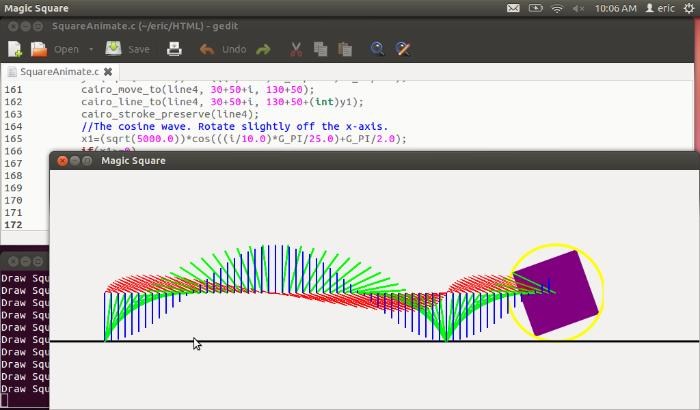
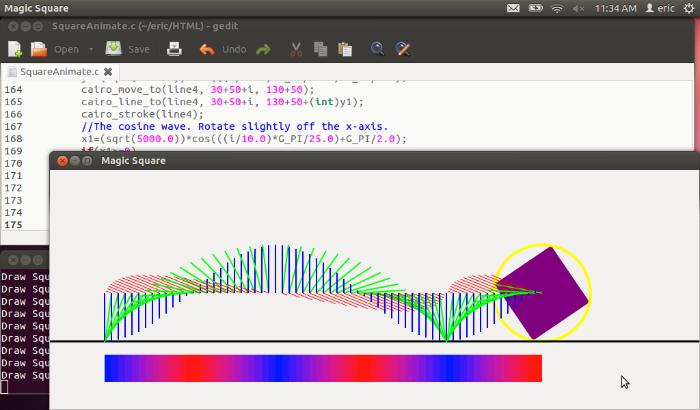
Add a color component line for SquareAnimate.c

diff --git a/Misc/SquareAnimate.c b/Misc/SquareAnimate.c
@@ -3,7 +3,7 @@
 
 Simple animation with GTK+ and Cairo. Click to start movement. Testing things out.
 Roll a square, build a cycloid "bridge" wave, sine wave and cosine wave. Have the
-square disappear and reappear. Magic Square.
+square disappear and reappear. Magic Square. Change around as needed.
 
 Compile with; gcc SquareAnimate.c `pkg-config --cflags --libs gtk+-3.0` -lm -Wall -o square
 
@@ -64,7 +64,7 @@ static void start_drawing(GtkWidget *widget, gpointer data)
         if(move!=1000)
           {
             draw_square(widget, move);
-            gtk_widget_queue_draw_area(widget, i, 30, 170, 250);
+            gtk_widget_queue_draw_area(widget, i, 30, 170, 350);
           }
         else
           {
@@ -102,6 +102,7 @@ static void draw_square(GtkWidget *widget, int move)
     cairo_t *line3=NULL;
     cairo_t *line4=NULL;
     cairo_t *line5=NULL;
+    cairo_t *line6=NULL;
 
     g_print("Draw Square %i\n", move);
     DefaultWindow=gtk_widget_get_window(GTK_WIDGET(widget));
@@ -111,7 +112,8 @@ static void draw_square(GtkWidget *widget, int move)
     line2 = gdk_cairo_create(DefaultWindow);
     line3 = gdk_cairo_create(DefaultWindow);
     line4 = gdk_cairo_create(DefaultWindow);
-    line5 = gdk_cairo_create(DefaultWindow);        
+    line5 = gdk_cairo_create(DefaultWindow);
+    line6 = gdk_cairo_create(DefaultWindow);         
 
     //Rotate around center of square so move there.
     cairo_translate(square, 30+move+50, 130+50);
@@ -128,7 +130,7 @@ static void draw_square(GtkWidget *widget, int move)
     cairo_set_line_width(circle, 4.0);
     cairo_arc(circle, 0, 0, sqrt(5000.0), 0, 2*M_PI);
     cairo_close_path(circle);
-    cairo_stroke_preserve(circle);
+    cairo_stroke(circle);
     //Put a line in for the square to roll on.
     cairo_set_source_rgb(line1, 0, 0, 0);
     cairo_move_to(line1, 0, 130+50+sqrt(5000.0));
@@ -141,26 +143,27 @@ static void draw_square(GtkWidget *widget, int move)
     cairo_move_to(line2,30+50+move, 130+50);
     cairo_arc(line2, 30+50+move, 130+50, sqrt(5000.0), (((move/10)*G_PI/25.0)+G_PI/2.0), (((move/10)*G_PI/25.0)+G_PI/2.0));
     cairo_line_to(line2, 30+50+move, 130+50);
-    cairo_stroke_preserve(line2);
+    cairo_stroke(line2);
     //Set line colors and width.
     cairo_set_line_width(line3, 2.0);
     cairo_set_source_rgb(line3, 0, 1.0, 0);
     cairo_set_line_width(line4, 2.0);
     cairo_set_source_rgb(line4, 0, 0, 1.0);
-    cairo_set_line_width(line5, 0.5);
+    cairo_set_line_width(line5, 1.0);
     cairo_set_source_rgb(line5, 1, 0, 0);
+    cairo_set_line_width(line6, 40.0);
     for(i=0;i<move;i+=10)
        {
          //The bridge.
          cairo_move_to(line3,30+50+i, 130+50);
          cairo_arc(line3, 30+50+i, 130+50, sqrt(5000.0), (((i/10)*G_PI/25.0)+G_PI/2.0), (((i/10)*G_PI/25.0)+G_PI/2.0));
          cairo_line_to(line3, 30+50+i, 130+50);
-         cairo_stroke_preserve(line3);
+         cairo_stroke(line3);
          //The sine wave.
          y1=(sqrt(5000.0))*sin(((i/10.0)*G_PI/25.0)+G_PI/2.0);
          cairo_move_to(line4, 30+50+i, 130+50);
          cairo_line_to(line4, 30+50+i, 130+50+(int)y1);
-         cairo_stroke_preserve(line4);
+         cairo_stroke(line4);
          //The cosine wave. Rotate slightly off the x-axis.
          x1=(sqrt(5000.0))*cos(((i/10.0)*G_PI/25.0)+G_PI/2.0);
          if(x1>=0)
@@ -172,7 +175,12 @@ static void draw_square(GtkWidget *widget, int move)
              cairo_arc(line5, 30+50+i, 130+50, (int)floor(fabs(x1)), G_PI+G_PI/8, G_PI+G_PI/8);
            }
          cairo_line_to(line5, 30+50+i, 130+50);
-         cairo_stroke_preserve(line5);        
+         cairo_stroke(line5); 
+         //The sine cosine color component line. 
+         cairo_set_source_rgb(line6, fabs(x1)/sqrt(5000), 0, fabs(y1)/sqrt(5000)); 
+         cairo_move_to(line6, 30+50+i, 130+50+110);
+         cairo_line_to(line6, 30+50+i+10, 130+50+110);
+         cairo_stroke(line6);       
        }
 
     //clean-up.
@@ -183,6 +191,7 @@ static void draw_square(GtkWidget *widget, int move)
     cairo_destroy(line3);
     cairo_destroy(line4);
     cairo_destroy(line5);
+    cairo_destroy(line6);
 
   }
 
